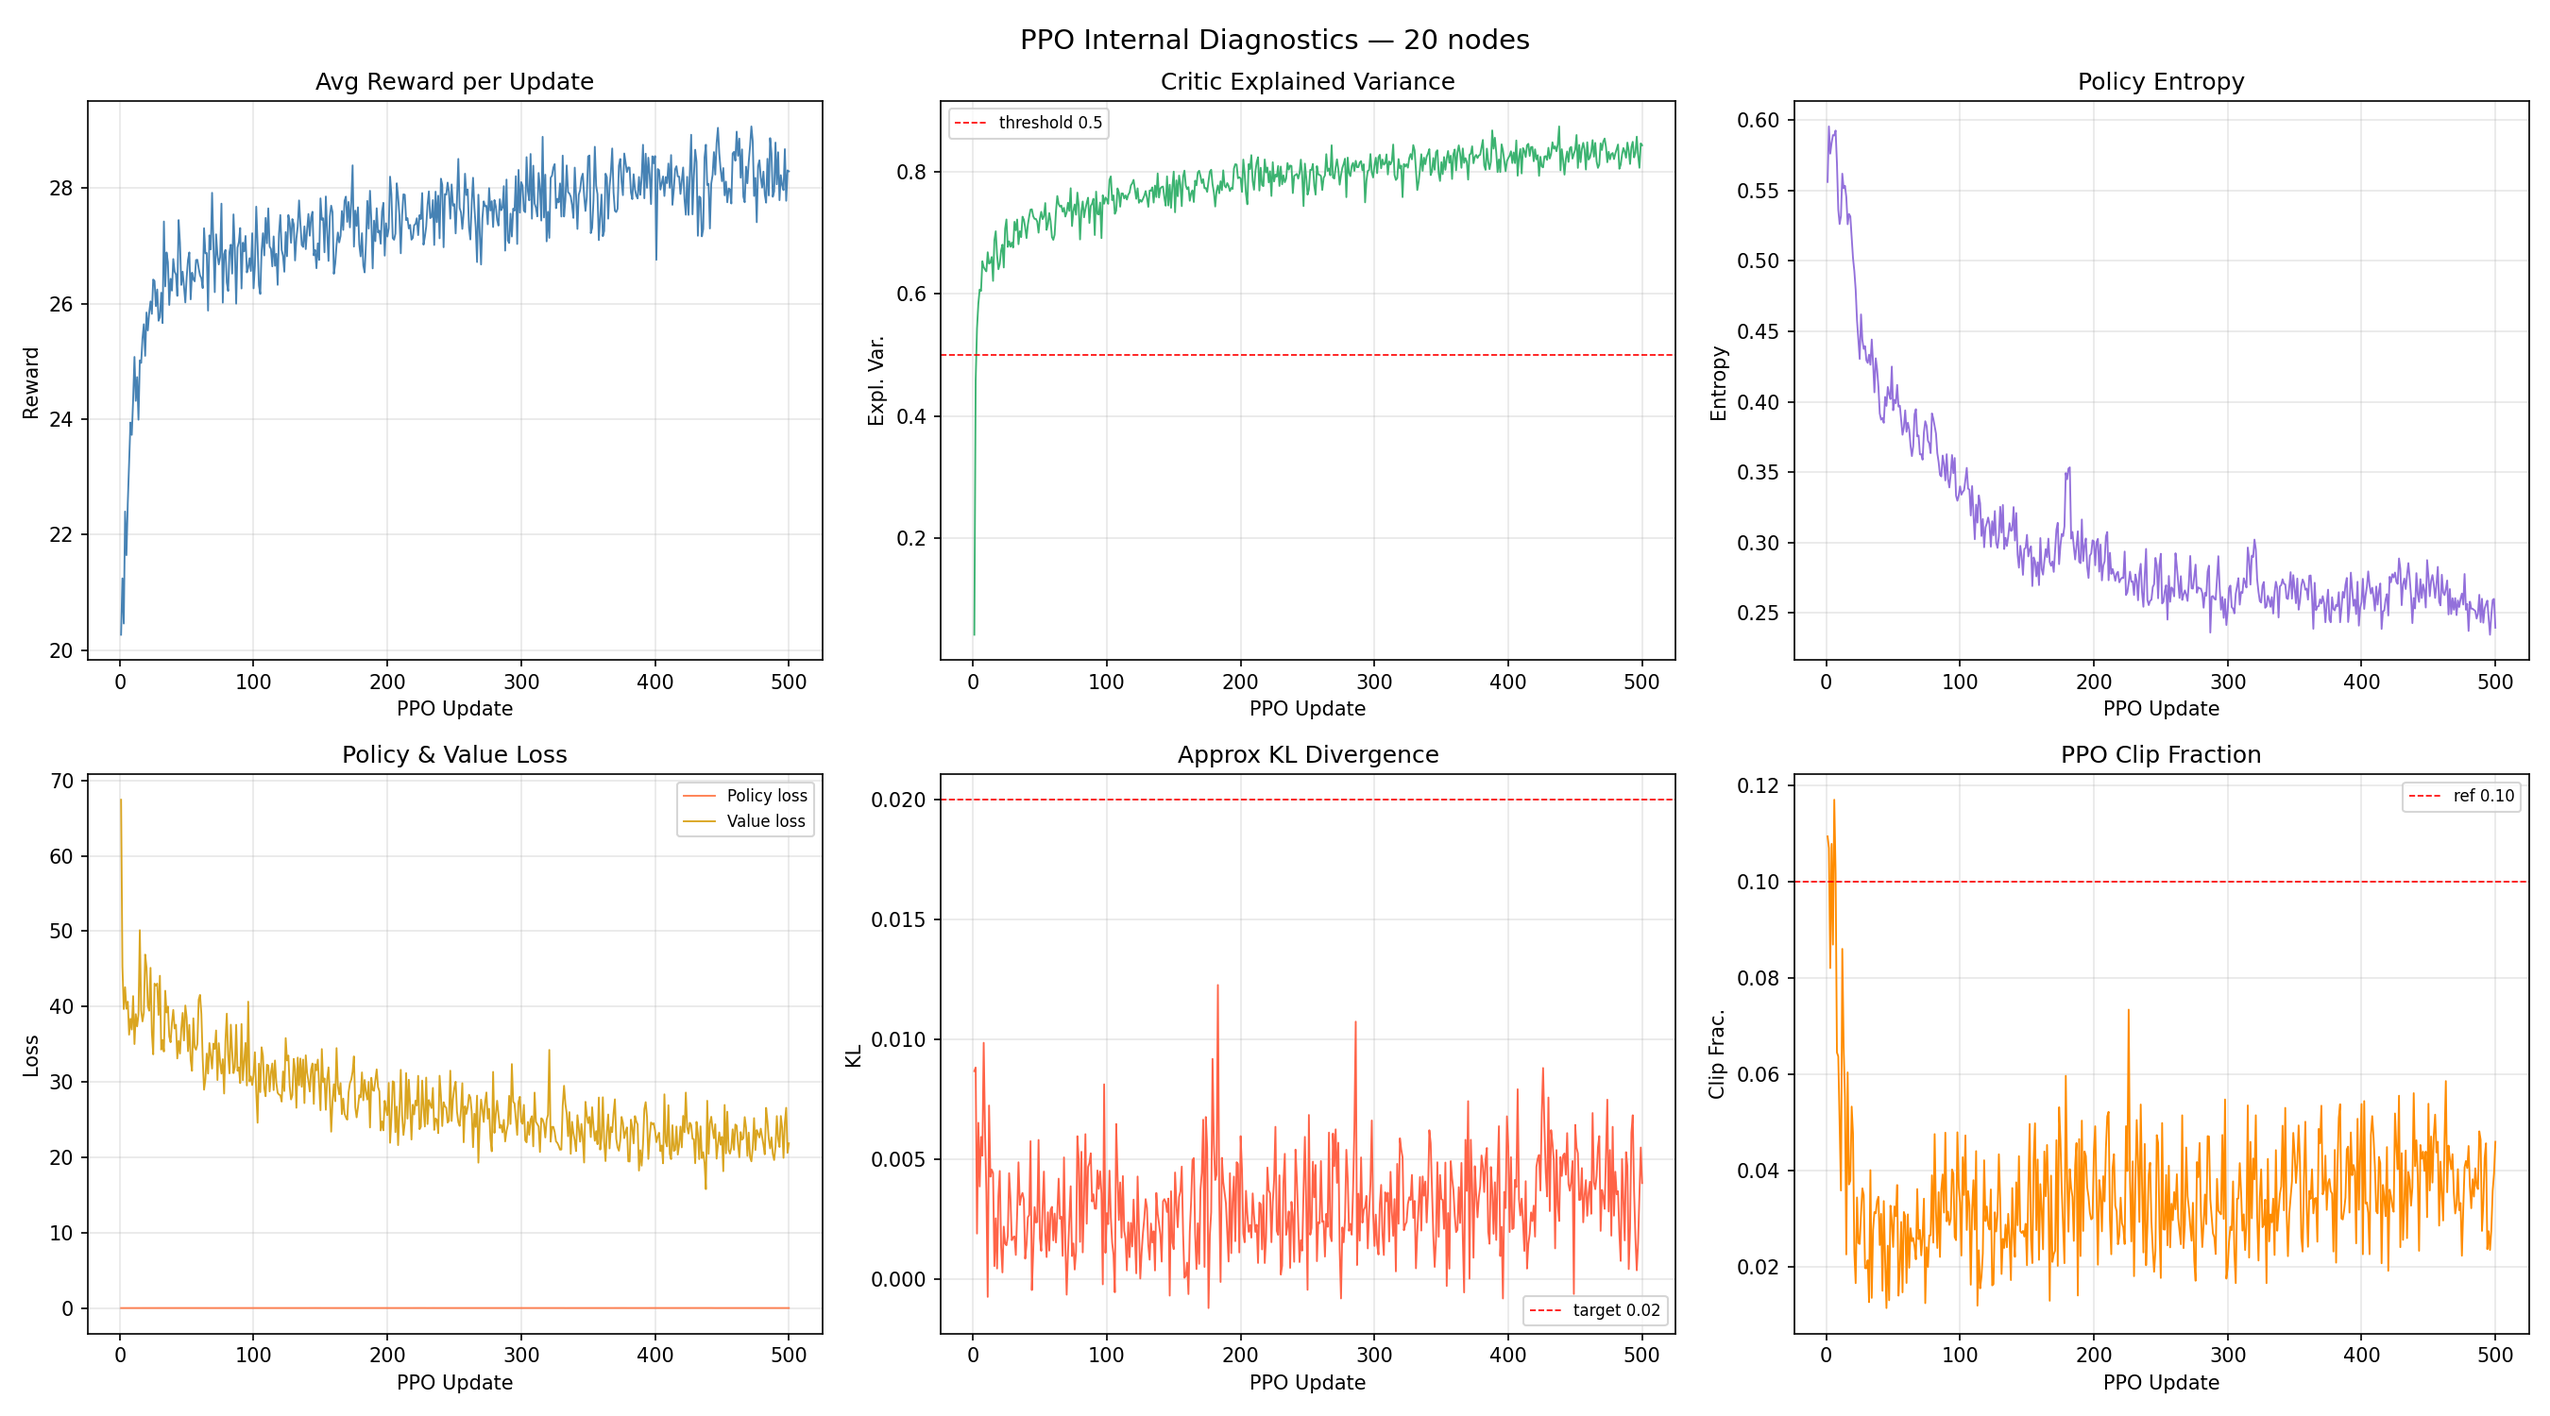
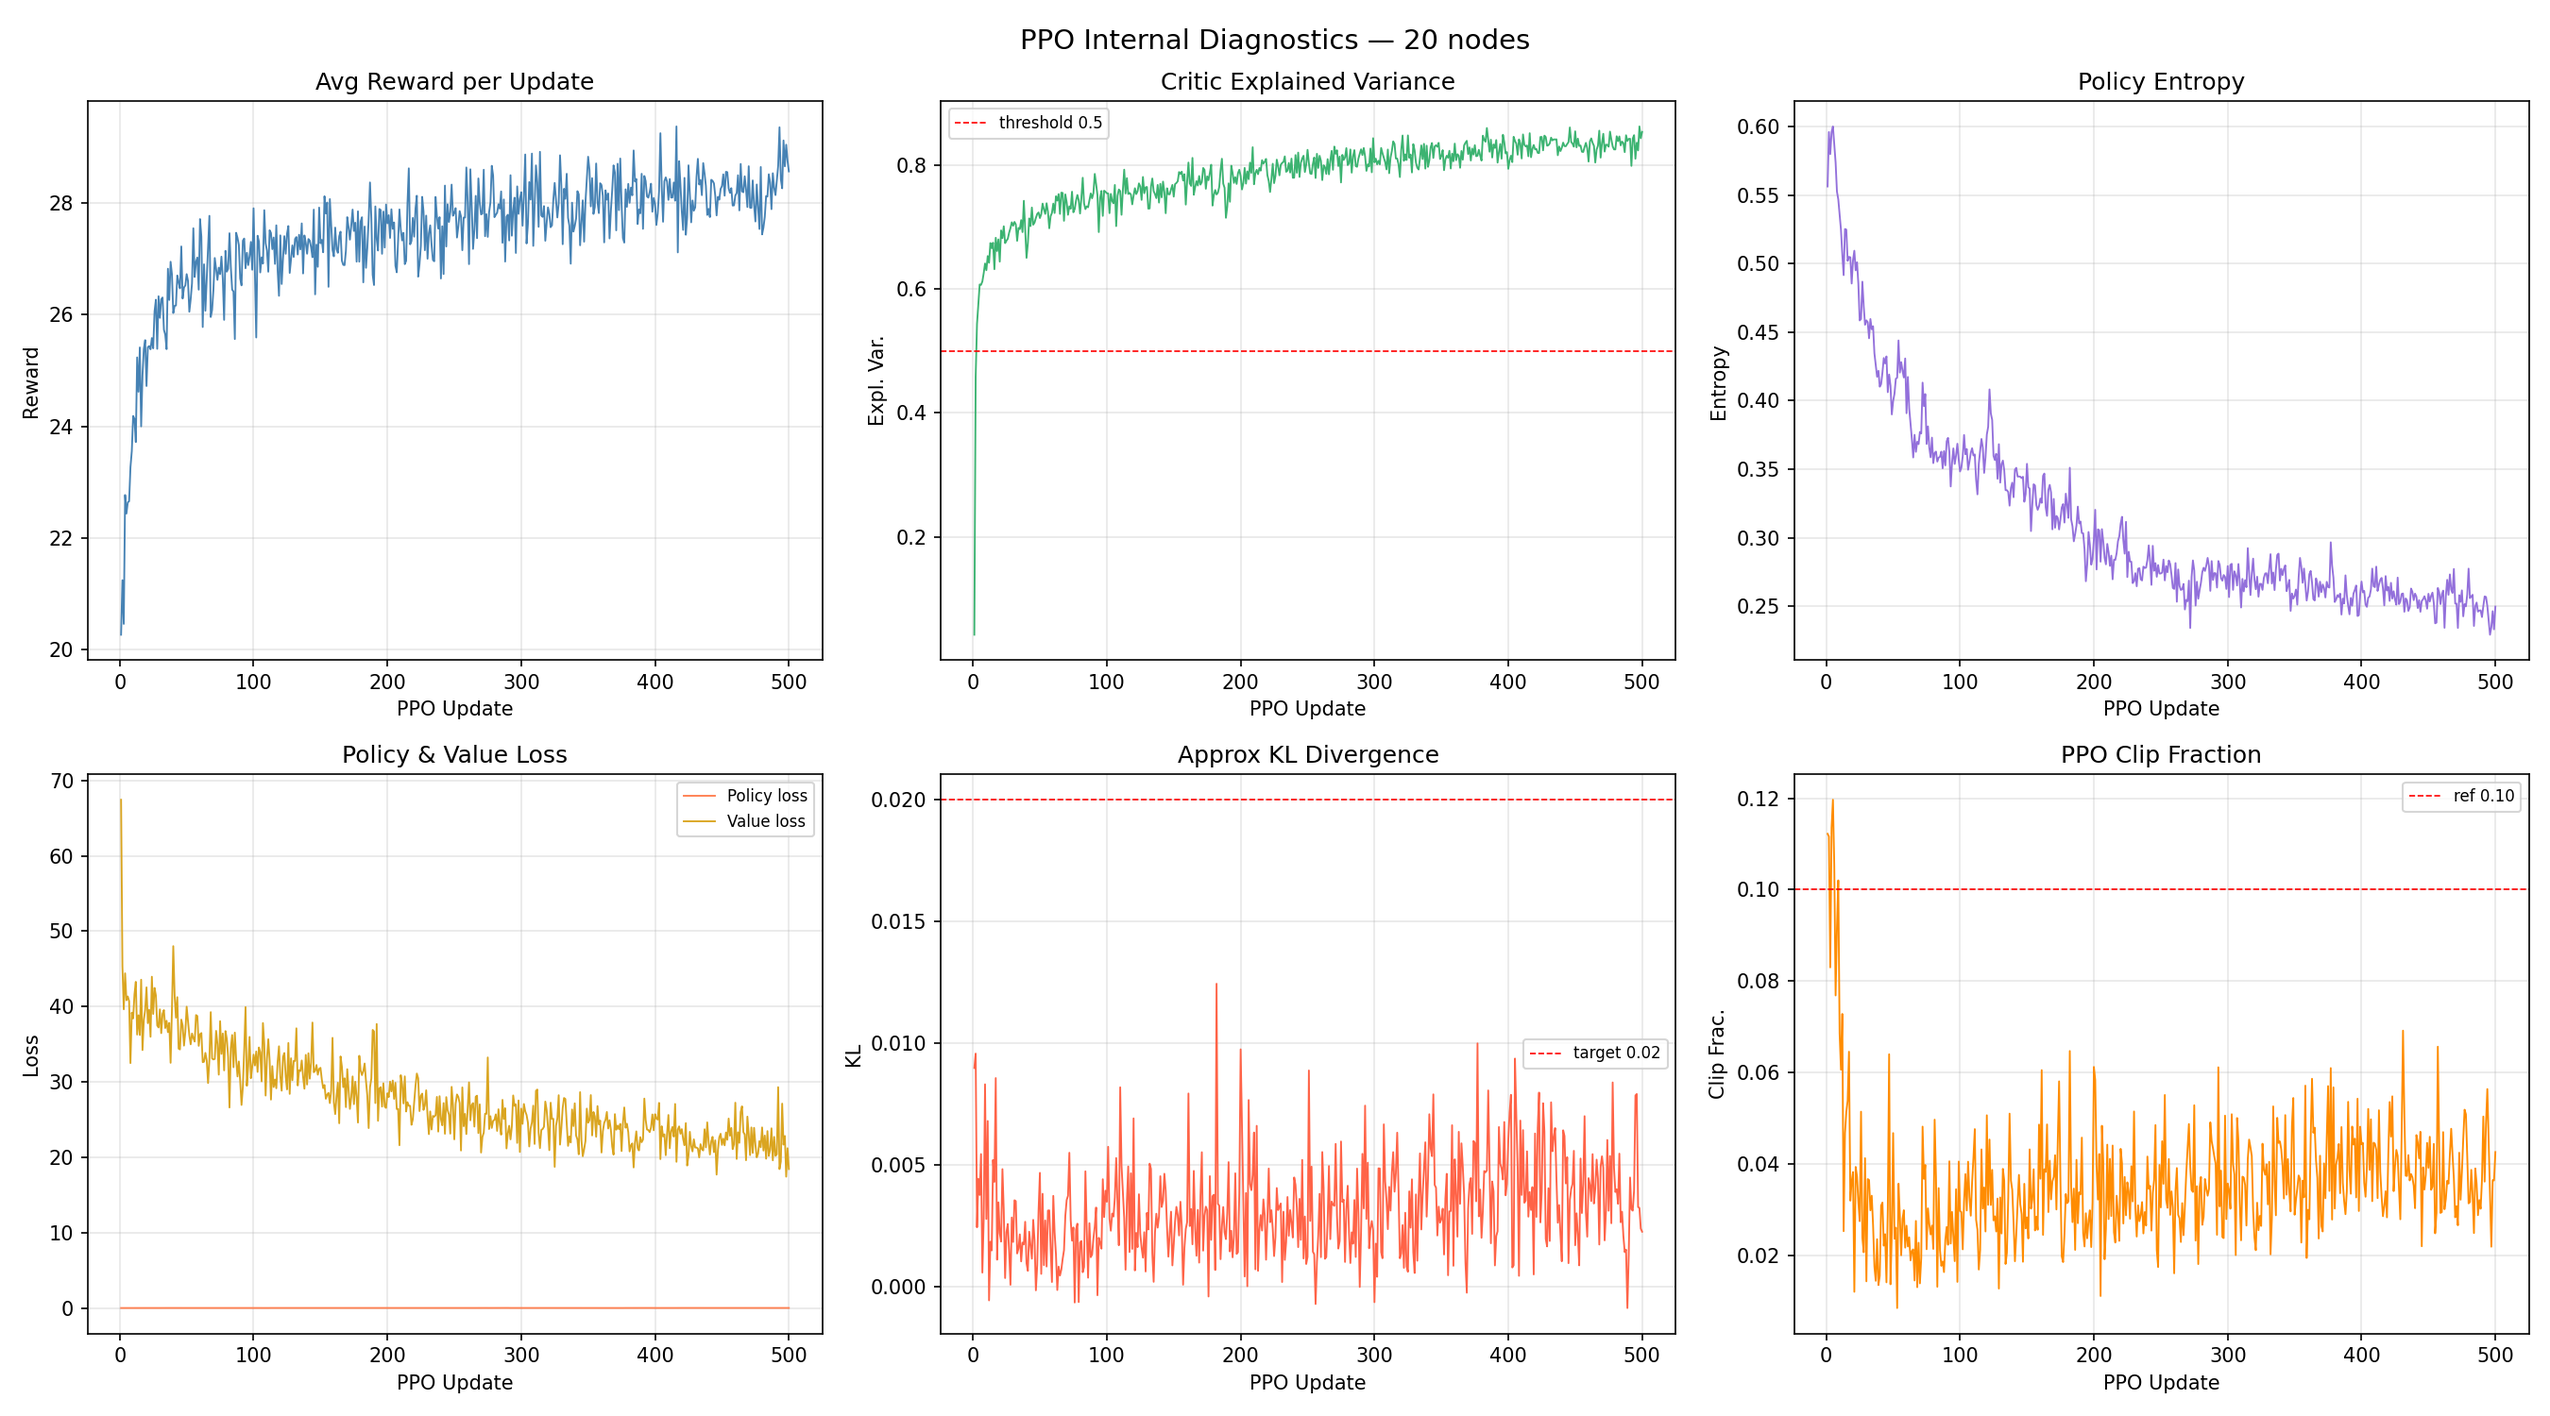
Mejora de GAP del DRL

diff --git a/eval_gap_nodes.py b/eval_gap_nodes.py
@@ -1,0 +1,173 @@
+"""
+eval_gap_nodes.py
+=================
+Re-evalúa solo los nodos con gap >20% usando beam_width elevado,
+sin reentrenar nada. Sirve para diagnosticar si el gap es problema
+de inferencia (beam_width muy pequeño) o de política aprendida.
+
+Uso
+---
+    python eval_gap_nodes.py                    # beam_width=10, nodos por defecto
+    python eval_gap_nodes.py --beam 15          # beam_width=15
+    python eval_gap_nodes.py --nodes 0 6 7      # nodos específicos
+    python eval_gap_nodes.py --beam 12 --nodes 0 6 7 12 15 18
+"""
+
+import argparse
+import os
+import sys
+import time
+import numpy as np
+import torch
+
+# ── Args ──────────────────────────────────────────────────────────────────────
+parser = argparse.ArgumentParser()
+parser.add_argument("--beam",  type=int, default=10,
+                    help="beam_width a usar (default: 10)")
+parser.add_argument("--nodes", type=int, nargs="+",
+                    default=[0, 6, 7, 12, 15, 18],
+                    help="nodos a re-evaluar (default: 0 6 7 12 15 18)")
+parser.add_argument("--num_nodes", type=int, default=20,
+                    help="tamaño del modelo / problema (default: 20)")
+parser.add_argument("--samples", type=int, default=5,
+                    help="rollouts estocásticos por nodo (default: 5)")
+args = parser.parse_args()
+
+BEAM_WIDTH  = args.beam
+GAP_NODES   = args.nodes
+NUM_NODES   = args.num_nodes
+N_SAMPLES   = args.samples
+
+# ── Imports del proyecto ──────────────────────────────────────────────────────
+sys.path.insert(0, os.path.dirname(os.path.abspath(__file__)))
+
+from config import DEVICE, MAX_DURATION, SEED, TRAIN_DAYS
+from am_agent import AMRoutingAgent
+from problem_data import load_matrices
+from Solvers import solve_label_setting_exact, simulate_route_reward
+
+# ── Carga checkpoint ──────────────────────────────────────────────────────────
+checkpoint_dir  = os.path.join(os.path.dirname(os.path.abspath(__file__)), "checkpoints")
+checkpoint_path = os.path.join(checkpoint_dir, f"am_checkpoint_{NUM_NODES}nodes.pt")
+
+if not os.path.exists(checkpoint_path):
+    sys.exit(f"ERROR: checkpoint no encontrado → {checkpoint_path}")
+
+ckpt  = torch.load(checkpoint_path, map_location=DEVICE)
+agent = AMRoutingAgent(num_nodes=NUM_NODES, device=DEVICE)
+agent.load_state_dict(ckpt["agent"])
+agent.eval()
+print(f"Checkpoint cargado: {checkpoint_path}")
+
+# ── Carga datos ───────────────────────────────────────────────────────────────
+time_matrix, rate_stack, loads_stack, distance_arr, diesel_arr, \
+    ltr_stack, trucks_stack, avail_prob_arr, _ = load_matrices(NUM_NODES)
+
+# Split eval (mismos días que usa main.py)
+rate_eval  = rate_stack[TRAIN_DAYS:]
+loads_eval = loads_stack[TRAIN_DAYS:]
+num_days   = rate_eval.shape[0]
+
+time_matrix_np = np.array(time_matrix, dtype=float)
+
+# Reproducir los mismos day_idx que usa run_solver_comparison
+rng         = np.random.default_rng(SEED)
+all_indices = rng.integers(0, num_days, size=NUM_NODES)  # genera para todos los nodos
+day_for     = {s: int(all_indices[s]) for s in range(NUM_NODES)}
+
+# ── Eval ──────────────────────────────────────────────────────────────────────
+print(f"\n{'='*60}")
+print(f"  Re-evaluación de nodos con gap >20%")
+print(f"  Nodos    : {GAP_NODES}")
+print(f"  beam_width actual (config): 5  →  usando: {BEAM_WIDTH}")
+print(f"  Modelo   : {NUM_NODES} nodos  |  Muestras estocásticas: {N_SAMPLES}")
+print(f"{'='*60}\n")
+
+rows = []
+for s in GAP_NODES:
+    day_idx     = day_for[s]
+    abs_day_idx = TRAIN_DAYS + day_idx
+    print(f"Nodo {s}  |  eval day {day_idx} (abs {abs_day_idx})")
+
+    # ── DRL Det (beam_width elevado, sin Bernoulli) ──────────────────────────
+    agent.eval()
+    det_route, _, _ = agent.beam_search_dynamic(
+        s, day_idx,
+        time_matrix, rate_eval, loads_eval, distance_arr, diesel_arr,
+        MAX_DURATION,
+        beam_width=BEAM_WIDTH,
+        ltr_stack=ltr_stack, trucks_stack=trucks_stack,
+        avail_prob_arr=None,   # determinista
+    )
+    agent.train()
+
+    det_valid = det_route is not None
+    if det_valid:
+        det_reward, det_duration = simulate_route_reward(
+            det_route, s, day_idx,
+            time_matrix_np, rate_eval, loads_eval, distance_arr, diesel_arr,
+            avail_prob_arr=None,
+        )
+    else:
+        det_reward, det_duration = -np.inf, np.inf
+
+    # ── DRL Real (beam_width elevado, con Bernoulli) — mejor de N_SAMPLES ────
+    best_route, best_reward, best_duration = None, -np.inf, np.inf
+    for _ in range(N_SAMPLES):
+        agent.eval()
+        r, rew, dur = agent.beam_search_dynamic(
+            s, day_idx,
+            time_matrix, rate_eval, loads_eval, distance_arr, diesel_arr,
+            MAX_DURATION,
+            beam_width=BEAM_WIDTH,
+            ltr_stack=ltr_stack, trucks_stack=trucks_stack,
+            avail_prob_arr=avail_prob_arr,
+        )
+        agent.train()
+        if r is not None and rew > best_reward:
+            best_route, best_reward, best_duration = r, rew, dur
+
+    # ── LS-Exact (referencia) ─────────────────────────────────────────────────
+    t0 = time.time()
+    ls_status, ls_route, ls_reward, ls_duration = solve_label_setting_exact(
+        s, time_matrix_np, rate_eval, loads_eval,
+        distance_arr, diesel_arr, MAX_DURATION, NUM_NODES,
+        start_day_idx=day_idx,
+        time_limit_seconds=300,
+    )
+    ls_time = time.time() - t0
+    ls_valid = ls_status in ("Optimal", "Time-Limited") and ls_route is not None
+    if not ls_valid:
+        ls_reward = -np.inf
+
+    # ── Gap ───────────────────────────────────────────────────────────────────
+    gap_det  = (ls_reward - det_reward)  / abs(ls_reward) * 100 if ls_valid and det_valid  and ls_reward != 0 else float("nan")
+    gap_real = (ls_reward - best_reward) / abs(ls_reward) * 100 if ls_valid and best_route is not None and ls_reward != 0 else float("nan")
+
+    print(f"  DRL Det  (beam={BEAM_WIDTH}): {det_route}  reward={det_reward:.1f}  gap vs LS-Exact={gap_det:+.1f}%")
+    print(f"  DRL Real (beam={BEAM_WIDTH}): {best_route}  reward={best_reward:.1f}  gap vs LS-Exact={gap_real:+.1f}%")
+    print(f"  LS-Exact [{ls_status}]:       {ls_route}  reward={ls_reward:.1f}  ({ls_time:.1f}s)\n")
+
+    rows.append({
+        "node": s, "day_idx": day_idx,
+        "beam": BEAM_WIDTH,
+        "det_reward": det_reward, "det_route": det_route, "gap_det": gap_det,
+        "real_reward": best_reward, "real_route": best_route, "gap_real": gap_real,
+        "ls_reward": ls_reward, "ls_status": ls_status,
+    })
+
+# ── Resumen ───────────────────────────────────────────────────────────────────
+print(f"\n{'='*60}")
+print(f"  RESUMEN  beam_width={BEAM_WIDTH}")
+print(f"  {'Nodo':>5}  {'DRL Det':>10}  {'Gap Det%':>9}  {'DRL Real':>10}  {'Gap Real%':>10}  {'LS-Exact':>10}")
+print(f"  {'-'*65}")
+for r in rows:
+    print(f"  {r['node']:>5}  {r['det_reward']:>10.1f}  {r['gap_det']:>+9.1f}  "
+          f"{r['real_reward']:>10.1f}  {r['gap_real']:>+10.1f}  {r['ls_reward']:>10.1f}")
+valid_det  = [r["gap_det"]  for r in rows if not np.isnan(r["gap_det"])]
+valid_real = [r["gap_real"] for r in rows if not np.isnan(r["gap_real"])]
+print(f"  {'AVG':>5}  {'':>10}  {np.mean(valid_det):>+9.1f}  {'':>10}  {np.mean(valid_real):>+10.1f}")
+print(f"{'='*60}")
+print("\nInterpretación:")
+print("  gap << 20%  → beam_width era el problema (inferencia)")
+print("  gap >> 20%  → el problema es la política aprendida")

diff --git a/config.py b/config.py
@@ -43,7 +43,9 @@ PPO_LR                    = 1e-5   # Learning rate para el actor
 PPO_GAMMA                 = 0.99   # Factor de descuento para las recompensas futuras
 PPO_GAE_LAMBDA            = 0.95   # Factor de GAE
 PPO_CLIP_EPS              = 0.15   # Clip PPO para limitar cambios de política
-PPO_ENTROPY_COEF          = 0.05   # Coeficiente de entropía para PPO
+PPO_ENTROPY_COEF          = 0.05   # Coeficiente de entropía para PPO (valor de referencia; el entrenamiento usa START/END)
+PPO_ENTROPY_COEF_START    = 0.08   # coeficiente de entropía al inicio del entrenamiento
+PPO_ENTROPY_COEF_END      = 0.02   # coeficiente de entropía al final del entrenamiento (decay lineal)
 PPO_GRAD_CLIP             = 0.5    # Clipping de gradiente para PPO
 
 # ── Train / eval split ───────────────────────────────────────
@@ -74,8 +76,8 @@ def get_beam_width(num_nodes: int) -> int:
     """Beam width for inference, scaled by problem size.
     Modelos pequeños necesitan más exploración en inferencia.
     Modelos grandes tienen políticas más robustas y beam=1 es suficiente."""
-    if num_nodes <= 10: return 5   # modelo pequeño, necesita más exploración
-    if num_nodes <= 20: return 5   # subido de 3 a 5
+    if num_nodes <= 10: return 5    # modelo pequeño, necesita más exploración
+    if num_nodes <= 20: return 10   # validado empíricamente: gap bajó de ~20-29% a ~14-16% vs beam=5
     if num_nodes <= 35: return 3   # balance costo/calidad
     return 1                       # modelo grande, confiar en la política
 

diff --git a/am_training.py b/am_training.py
@@ -33,7 +33,7 @@ from config import (
     AM_D_H, AM_N_HEADS, AM_N_LAYERS, AM_D_FF,
     PPO_N_EPISODES_PER_UPDATE, PPO_N_EPOCHS, PPO_BATCH_SIZE,
     PPO_LR, PPO_GAMMA, PPO_GAE_LAMBDA, PPO_CLIP_EPS,
-    PPO_ENTROPY_COEF, PPO_GRAD_CLIP,
+    PPO_ENTROPY_COEF, PPO_ENTROPY_COEF_START, PPO_ENTROPY_COEF_END, PPO_GRAD_CLIP,
 )
 from routing_env import RoutingEnv
 from problem_data import build_day_matrices
@@ -299,7 +299,6 @@ def run_am_training(
     gamma                 = PPO_GAMMA
     gae_lambda            = PPO_GAE_LAMBDA
     clip_eps              = PPO_CLIP_EPS
-    entropy_coef          = PPO_ENTROPY_COEF
     grad_clip             = PPO_GRAD_CLIP
 
     torch.manual_seed(SEED)
@@ -348,6 +347,9 @@ def run_am_training(
 
     # ── Loop principal ────────────────────────────────────────────────────────
     for update in range(n_updates):
+        progress     = update / max(1, n_updates - 1)
+        entropy_coef = PPO_ENTROPY_COEF_START + (PPO_ENTROPY_COEF_END - PPO_ENTROPY_COEF_START) * progress
+
         buffer = RolloutBuffer()
         update_ep_rewards = []
 
@@ -641,6 +643,7 @@ def run_am_training(
             "kl_divergence":    avg_kl,
             "clip_fraction":    avg_clip_frac,
             "explained_var":    explained_var,
+            "entropy_coef":     entropy_coef,
         })
 
         log_freq = max(1, n_updates // 20)

diff --git a/main.py b/main.py
@@ -252,7 +252,7 @@ def _evaluate_and_report(
 def main():
     # ── Cambia estos valores según lo que quieras hacer ───────────────────────
     NUM_NODES  = 20     # opciones: 10 · 20 · 35 · 50 · 75 · 100
-    EVAL_ONLY  = True  # True: carga checkpoint y salta entrenamiento
+    EVAL_ONLY  = False  # True: carga checkpoint y salta entrenamiento
     # ──────────────────────────────────────────────────────────────────────────
 
     cwd          = os.path.dirname(os.path.abspath(__file__))
